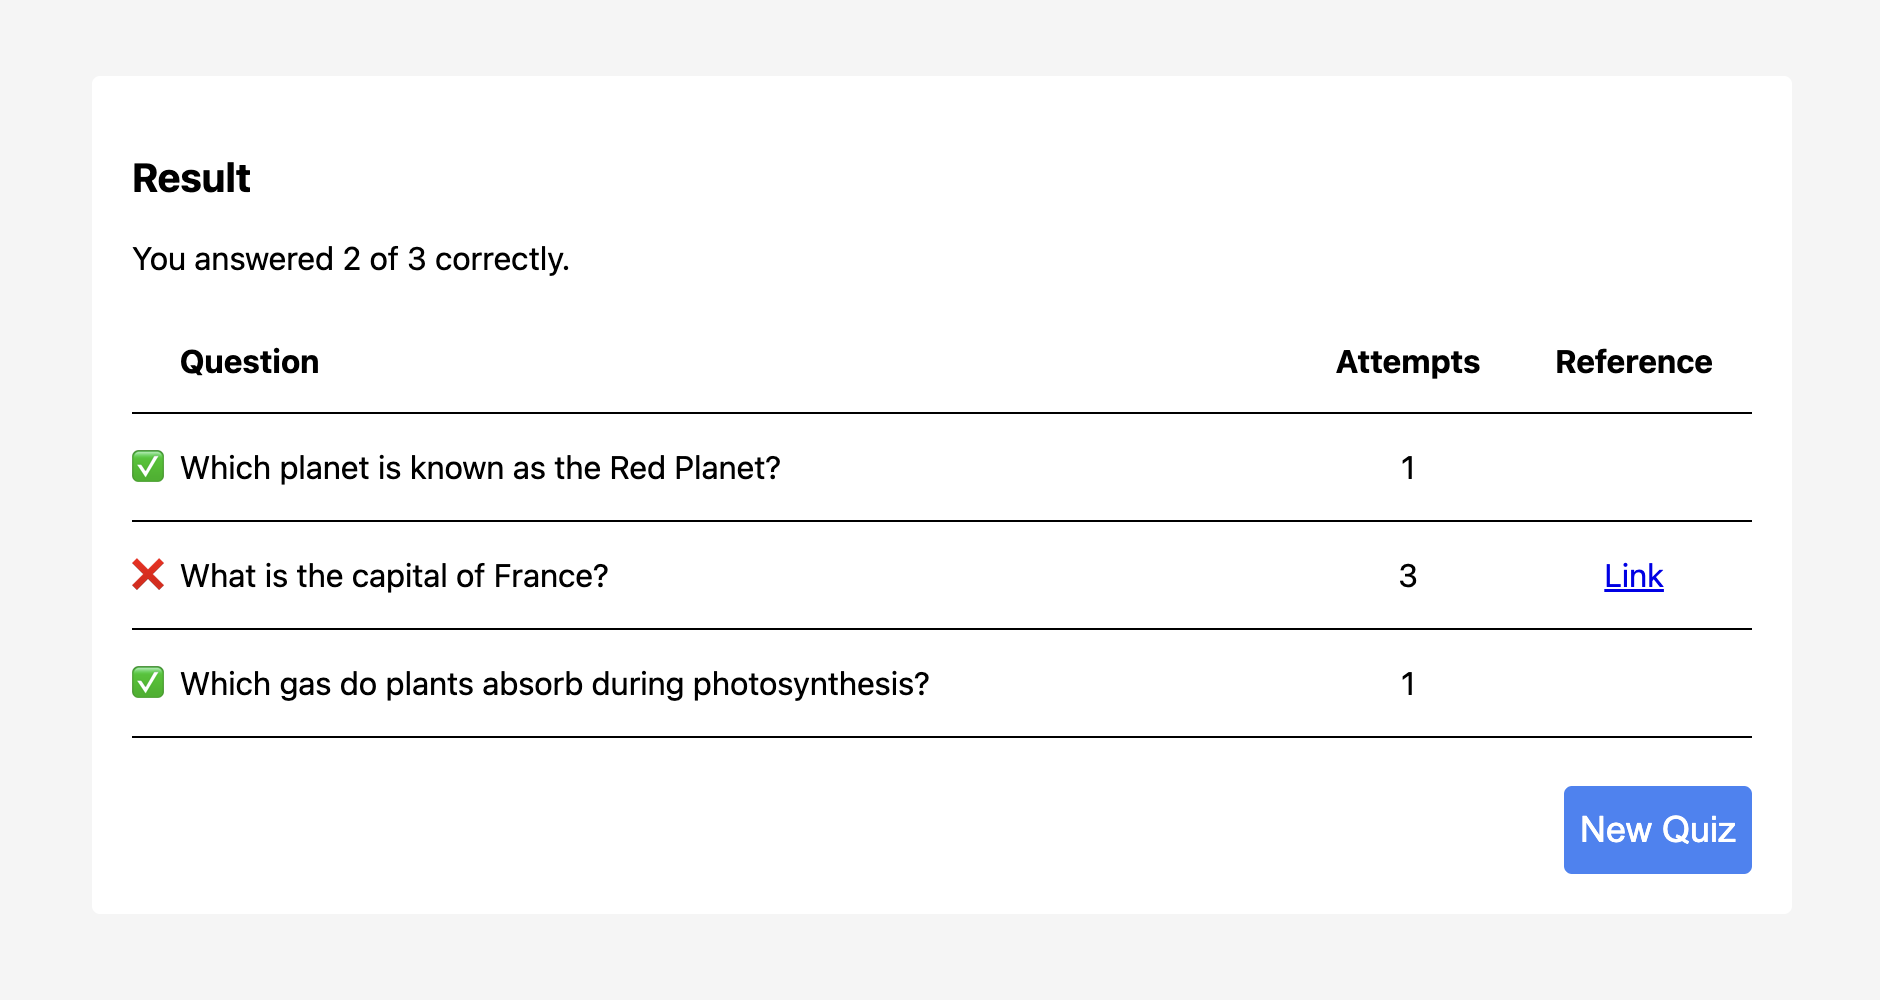
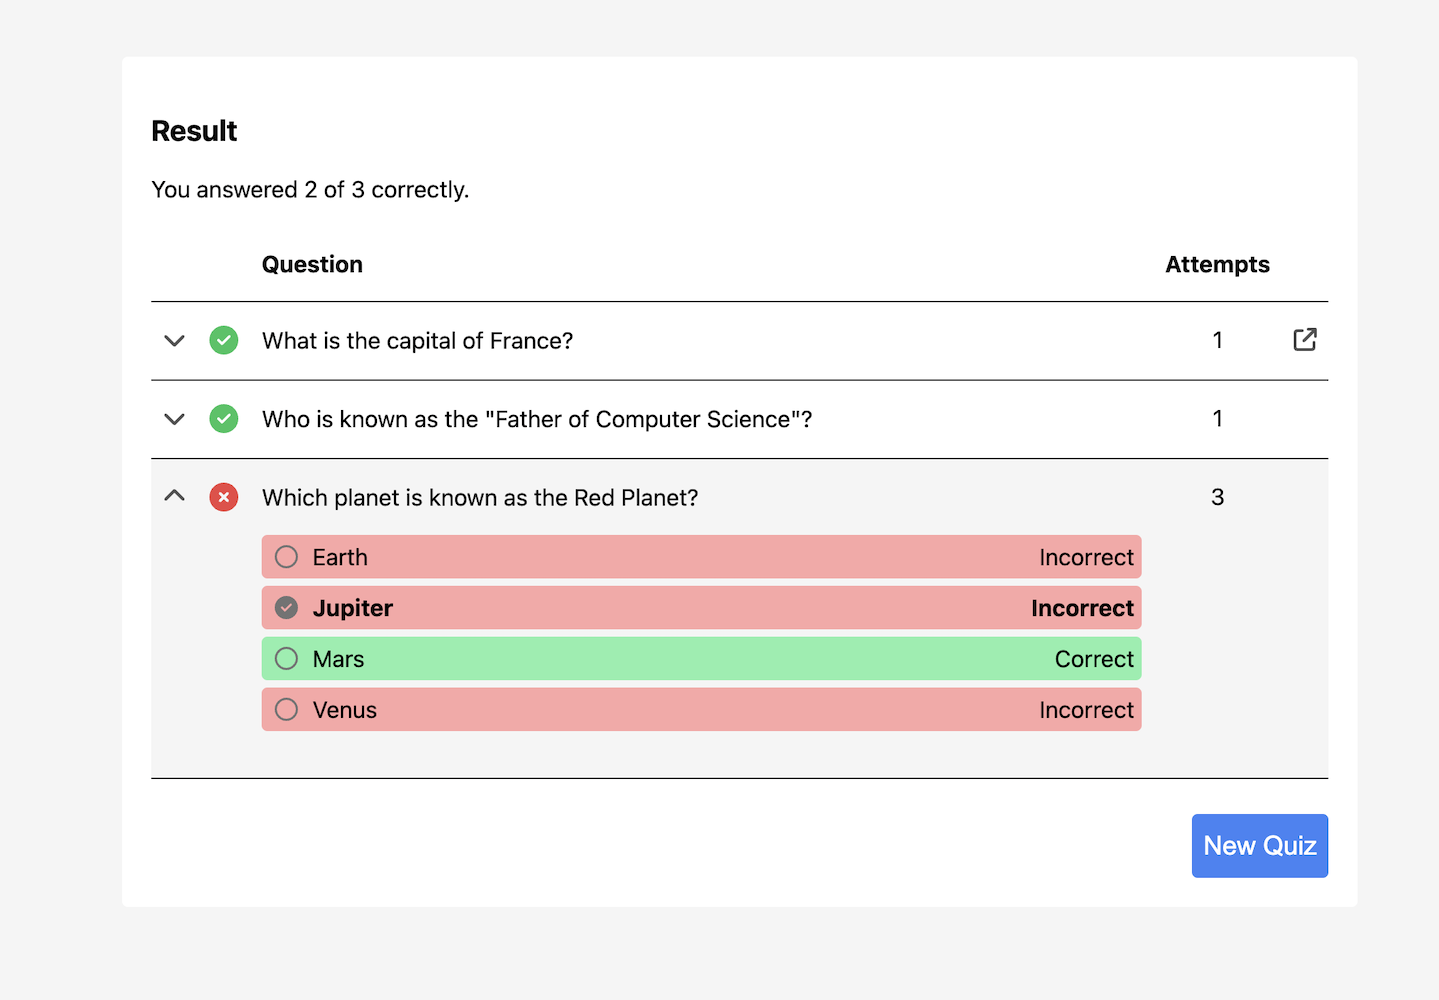
Introduce ResultViewer component and use it in the results table
The component style is based on the question and answers component.
Specific answers can highlighted. We use it to display the last selection
the user made. For that we need to extend the ResultType with a selections
property. This property will be updated every time the user submits an answer.

Extend result component tests and update documentation

diff --git a/src/components/Result.test.tsx b/src/components/Result.test.tsx
@@ -1,4 +1,5 @@
 import { render, screen } from '@testing-library/react';
+import userEvent from '@testing-library/user-event';
 import Result from './Result';
 import { Context } from '../Context';
 import { translationsProvider } from '../util';
@@ -26,6 +27,7 @@ describe('Result component', () => {
           remainingAttempts: 0,
           correctlyAnswered: true,
         },
+        selections: [],
       },
     ];
 
@@ -61,6 +63,7 @@ describe('Result component', () => {
           remainingAttempts: 0,
           correctlyAnswered: true,
         },
+        selections: [],
       },
     ];
 
@@ -79,5 +82,64 @@ describe('Result component', () => {
       name: 'Reference',
     });
     expect(referenceHeading).not.toBeInTheDocument();
+  });
+
+  it('shows the answers when expanding a question', async () => {
+    const user = userEvent.setup();
+    const results: ResultType[] = [
+      {
+        id: '1',
+        question: {
+          id: '1',
+          referenceLink: 'https://en.wikipedia.org/wiki/Mars',
+          type: QuestionTypes.SingleChoice,
+          text: 'Which planet is known as the Red Planet?',
+          answers: [
+            { id: 'jupiter', correct: false, text: 'Jupiter' },
+            { id: 'mars', correct: true, text: 'Mars' },
+          ],
+          remainingAttempts: 0,
+          correctlyAnswered: true,
+        },
+        selections: [{ id: 'mars', correct: true, text: 'Mars' }],
+      },
+    ];
+
+    const providerProps = {
+      value: {
+        results,
+      },
+    };
+
+    customRender(<Result />, { providerProps });
+
+    // Answers are initially not visible
+    let answer1 = screen.queryByRole('row', { name: /Mars/ });
+    let answer2 = screen.queryByRole('row', { name: /Jupiter/ });
+
+    expect(answer1).not.toBeInTheDocument();
+    expect(answer2).not.toBeInTheDocument();
+
+    const expandBtn = screen.getByRole('cell', { name: 'Expand' });
+    await user.click(expandBtn);
+
+    // Answers are visible after clicking the expand button
+    answer1 = screen.getByRole('row', { name: /Mars/ });
+    answer2 = screen.getByRole('row', { name: /Jupiter/ });
+
+    expect(answer1).toBeInTheDocument();
+    expect(answer2).toBeInTheDocument();
+
+    const answer1Li = screen.getByText(/Mars/).closest('li');
+    const answer2Li = screen.getByText(/Jupiter/).closest('li');
+
+    expect(answer1Li).toHaveAttribute(
+      'aria-description',
+      'You selected this answer',
+    );
+    expect(answer2Li).not.toHaveAttribute(
+      'aria-description',
+      'You selected this answer',
+    );
   });
 });

diff --git a/src/components/ResultViewer.tsx b/src/components/ResultViewer.tsx
@@ -1,0 +1,73 @@
+import styles from './ResultViewer.module.scss';
+import Markdown from './Markdown';
+import { FontAwesomeIcon } from '@fortawesome/react-fontawesome';
+import {
+  faSquareCheck,
+  faCircleCheck,
+} from '@fortawesome/free-solid-svg-icons';
+import { faSquare, faCircle } from '@fortawesome/free-regular-svg-icons';
+
+import { useTranslation } from 'react-i18next';
+import { AnswerType, QuestionTypes, QuestionType } from '../types';
+
+const ResultViewer = ({
+  question,
+  selectedAnswers,
+  collapsed,
+}: {
+  question: QuestionType;
+  selectedAnswers: AnswerType[];
+  collapsed: boolean;
+}) => {
+  const { t } = useTranslation();
+
+  const wasSelected = (answer: AnswerType) =>
+    selectedAnswers.some((sel) => sel.id === answer.id);
+
+  const indicatorClass = (answer: AnswerType) =>
+    answer.correct ? styles.correct : styles.wrong;
+
+  const selectedClass = (answer: AnswerType) =>
+    wasSelected(answer) ? styles.selected : '';
+
+  const correctHint = (answer: AnswerType) =>
+    answer.correct ? t('viewer.correct') : t('viewer.incorrect');
+
+  const icon = (answer: AnswerType) => {
+    if (question.type === QuestionTypes.SingleChoice) {
+      return wasSelected(answer) ? faCircleCheck : faCircle;
+    } else {
+      return wasSelected(answer) ? faSquareCheck : faSquare;
+    }
+  };
+
+  return (
+    <div className={collapsed ? styles.collapsed : ''}>
+      <div className={styles.questionMarkdown}>
+        {<Markdown content={question.text}></Markdown>}
+      </div>
+      <ul className={styles.answers} aria-hidden={collapsed}>
+        {question.answers.map((answer: AnswerType) => (
+          <li
+            key={answer.id}
+            className={`${styles.answer} ${indicatorClass(answer)} ${selectedClass(answer)}`}
+            aria-description={wasSelected(answer) ? t('viewer.selected') : ''}
+          >
+            <FontAwesomeIcon
+              icon={icon(answer)}
+              className={styles.icon}
+              aria-label={correctHint(answer)}
+              title={correctHint(answer)}
+            />
+            <div className={styles.answerMarkdown}>
+              <Markdown content={answer.text} />
+            </div>
+            <p className={styles.correctHint}>{correctHint(answer)}</p>
+          </li>
+        ))}
+      </ul>
+    </div>
+  );
+};
+
+export default ResultViewer;

diff --git a/src/components/ResultViewer.module.scss b/src/components/ResultViewer.module.scss
@@ -1,0 +1,87 @@
+@use './../variables.scss';
+
+.collapsed {
+  .questionMarkdown {
+    // Add truncation
+    white-space: nowrap;
+    overflow: hidden;
+    text-overflow: ellipsis;
+    // Ensure simple <p> style
+    * {
+      font-weight: normal;
+      text-decoration: none;
+      display: inline;
+    }
+  }
+
+  .answers {
+    display: none;
+  }
+}
+
+.questionMarkdown *,
+.answerMarkdown * {
+  margin: 0;
+  @include variables.font-s;
+  // Ensure elements don't overflow
+  max-width: 100%;
+}
+
+.answers {
+  padding-left: 0;
+}
+
+.answer {
+  display: flex;
+  align-items: center;
+  border-radius: 4px;
+  width: 100%;
+  padding: 5px;
+  margin: 5px 0;
+  box-sizing: border-box;
+  flex-wrap: nowrap;
+
+  &.selected {
+    font-weight: bold;
+  }
+
+  &.correct {
+    background-color: variables.$success-light;
+  }
+
+  &.wrong {
+    background-color: variables.$danger-light;
+  }
+
+  .icon {
+    color: variables.$neutral;
+    @include variables.font-s;
+    margin: 0 10px 0 4px;
+  }
+
+  * {
+    margin: 0;
+  }
+
+  .answerMarkdown {
+    flex-grow: 1;
+  }
+
+  .correctHint {
+    display: none;
+    @include variables.screen-size-m-and-up {
+      display: block;
+    }
+  }
+
+  code {
+    // Ensure code elements don't overflow
+    white-space: pre-wrap;
+    word-break: break-all;
+  }
+
+  img {
+    // Ensure images don't overflow
+    max-width: 100%;
+  }
+}

diff --git a/src/components/ResultRow.tsx b/src/components/ResultRow.tsx
@@ -2,8 +2,9 @@ import { useState } from 'react';
 import styles from './Result.module.scss';
 import { ResultType } from '../types';
 import { useTranslation } from 'react-i18next';
-import Markdown from './Markdown';
+import ResultViewer from './ResultViewer';
 import { FontAwesomeIcon } from '@fortawesome/react-fontawesome';
+
 import {
   faCircleCheck,
   faTimesCircle,
@@ -24,7 +25,7 @@ function ResultRow({ result, rowNum }: { result: ResultType; rowNum: number }) {
   return (
     <tr
       aria-expanded={!collapsed}
-      className={`${styles.tr} ${collapsed ? styles.tdCollapsed : ''} `}
+      className={`${styles.tr} ${collapsed ? styles.collapsed : ''} `}
       key={result.id}
       onClick={toggleCollapsed}
     >
@@ -55,10 +56,12 @@ function ResultRow({ result, rowNum }: { result: ResultType; rowNum: number }) {
           />
         )}
       </td>
-      <td className={`${styles.td} ${styles.questionCell}`}>
-        <div className={styles.questionMarkdown}>
-          {<Markdown content={result.question.text}></Markdown>}
-        </div>
+      <td className={`${styles.td} ${styles.resultViewerCell}`}>
+        <ResultViewer
+          question={result.question}
+          selectedAnswers={result.selections}
+          collapsed={collapsed}
+        />
       </td>
       <td
         className={`${styles.td} ${styles.centered}`}

diff --git a/src/components/Result.module.scss b/src/components/Result.module.scss
@@ -21,7 +21,17 @@
     border-color: variables.$neutral;
     border-bottom: 1px solid;
     border-top: 1px solid;
-    background-color: variables.$neutral-light;
+    background-color: white;
+
+    &:hover {
+      background-color: variables.$neutral-light;
+    }
+  }
+
+  .resultViewerCell {
+    // Trick to make text truncation work
+    width: 100%;
+    max-width: 0;
   }
 
   .th {
@@ -32,37 +42,6 @@
   .td {
     vertical-align: top;
     padding: 16px 8px;
-  }
-
-  .questionCell {
-    width: 100%;
-    max-width: 0;
-
-    .questionMarkdown * {
-      margin: 0;
-      max-width: 100%;
-      @include variables.font-s;
-    }
-  }
-
-  .tdCollapsed {
-    background-color: white;
-    &:hover {
-      background-color: variables.$neutral-light;
-    }
-    // Add truncation
-    .questionCell {
-      white-space: nowrap;
-    }
-    .questionMarkdown {
-      overflow: hidden;
-      text-overflow: ellipsis;
-      // Ensure simple <p> style
-      * {
-        font-weight: normal;
-        display: inline;
-      }
-    }
   }
 
   .iconCell {

diff --git a/src/components/Form.tsx b/src/components/Form.tsx
@@ -79,9 +79,11 @@ const Form = ({
     );
 
     if (questionIndex !== -1) {
-      // Update question if already included in results
       const updatedResults = [...results];
-      updatedResults[questionIndex].question = question;
+      const updatedResult = { ...updatedResults[questionIndex] }; // Copy the existing result
+      updatedResult.question = question; // Update the question
+      updatedResult.selections = selections; // Update the selections
+      updatedResults[questionIndex] = updatedResult; // Replace the existing result with the updated one
       setResults(updatedResults);
     } else {
       // Add new question
@@ -90,6 +92,7 @@ const Form = ({
         {
           id: `{${question.id}}-${new Date().getTime()}`,
           question,
+          selections,
         },
       ]);
     }

diff --git a/src/locales/de.ts b/src/locales/de.ts
@@ -45,6 +45,11 @@ const de = {
     unanswered: 'Sie haben keine einzige Frage beantwortet.',
     new: 'Neues Quiz',
   },
+  viewer: {
+    selected: 'Sie haben diese Antwort gewählt',
+    correct: 'Richtig',
+    incorrect: 'Falsch',
+  },
   answer: {
     correct: 'Richtig',
     incorrect: 'Falsch',

diff --git a/src/locales/en.ts b/src/locales/en.ts
@@ -46,6 +46,11 @@ const en = {
     unanswered: 'You did not answer any questions.',
     new: 'New Quiz',
   },
+  viewer: {
+    selected: 'You selected this answer',
+    correct: 'Correct',
+    incorrect: 'Incorrect',
+  },
   answer: {
     correct: 'Correct',
     incorrect: 'Incorrect',

diff --git a/src/types.ts b/src/types.ts
@@ -43,4 +43,5 @@ export type AnswerType = {
 export type ResultType = {
   id: string;
   question: QuestionPoolType;
+  selections: AnswerType[];
 };
